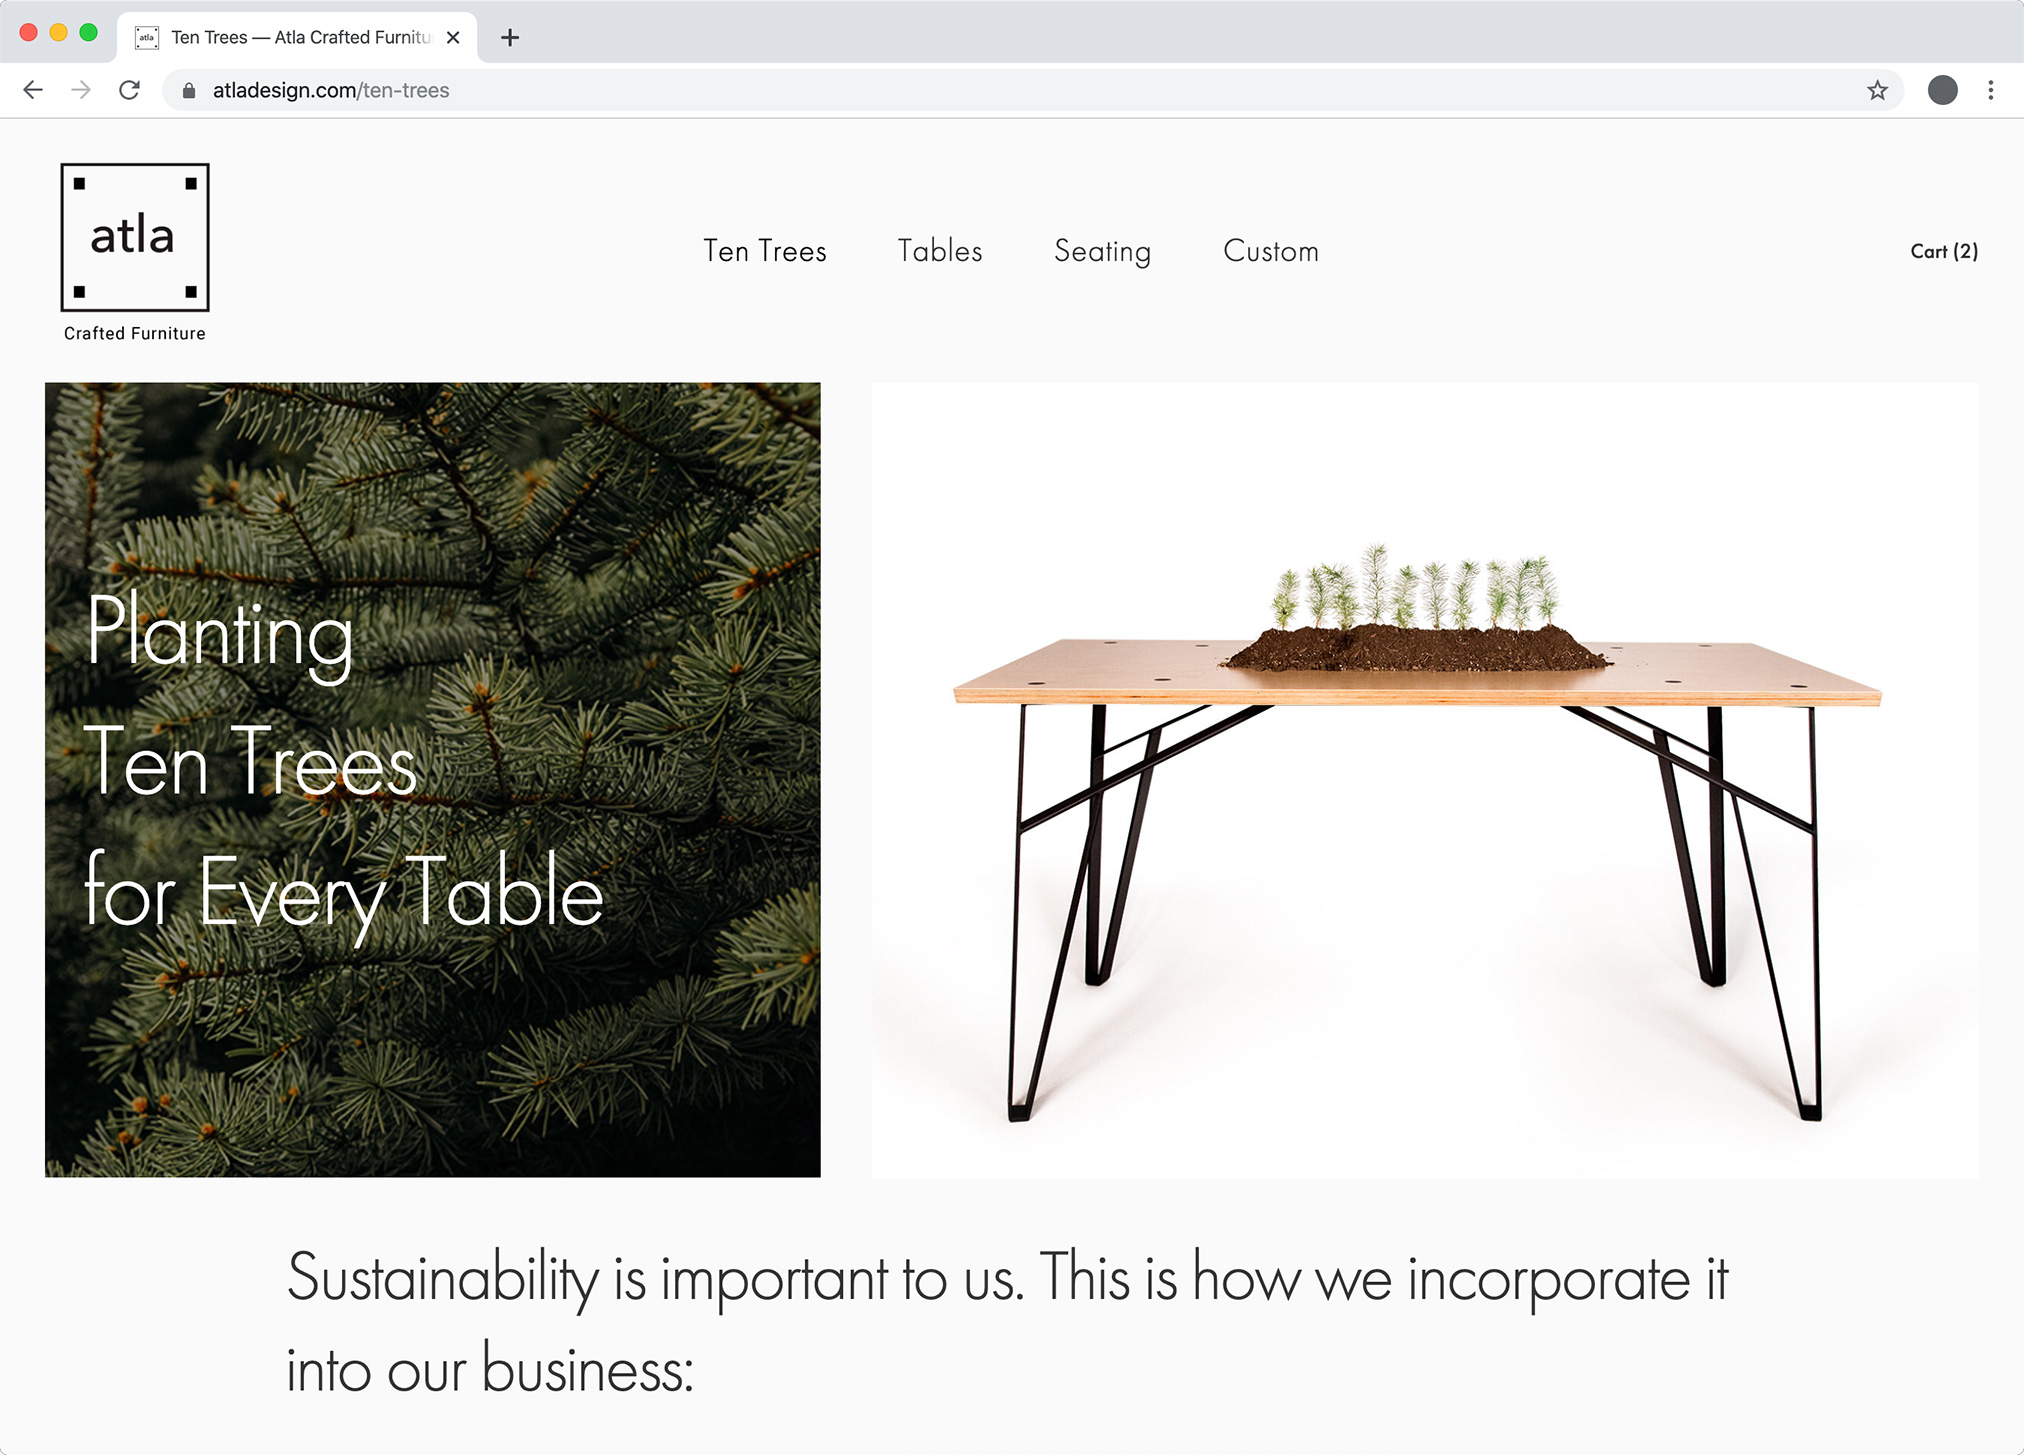
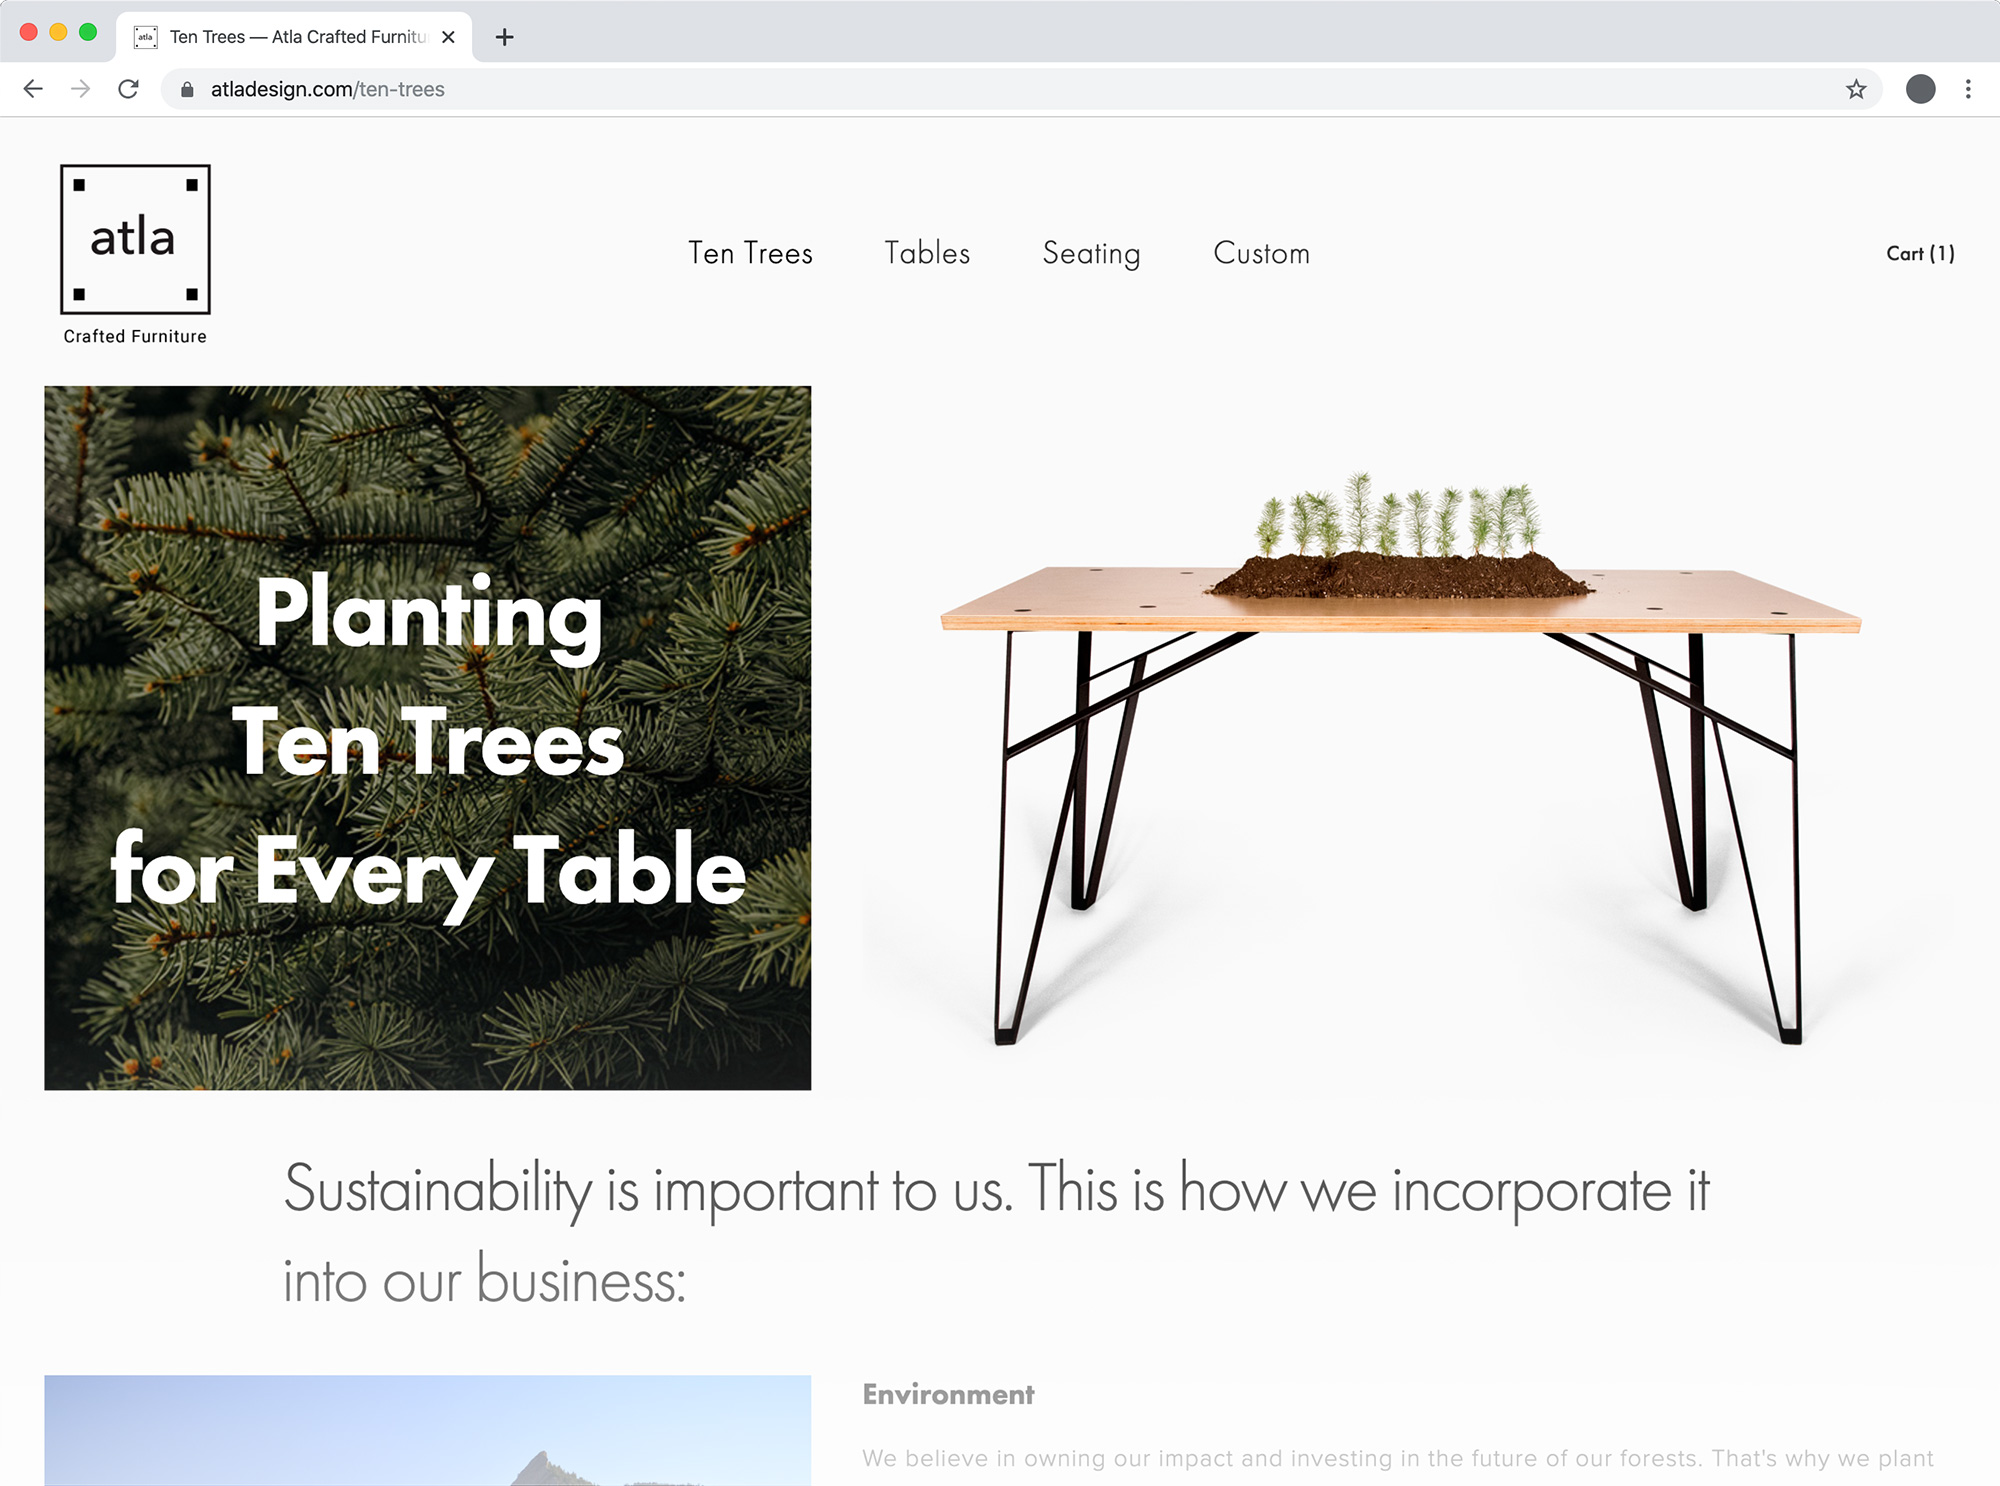
mass improvements to atla & ccf

diff --git a/atla.html b/atla.html
@@ -14,6 +14,8 @@
 
       <script src="assets/header2.js"></script>
 
+      <img class="fullscrn tilepic" src="assets/atla/email-header-small.jpg">
+
       <h1 class="pageTitle">Atla Design</h1>
 
       <div class="evenRow">
@@ -23,50 +25,55 @@
         </div>
 
         <div class="flex" style="width:60%;">
-          <p class="description">ATLA is a small, independent furniture company based in Boulder. The name of the game for them is simplicity, customizability, and sustainability.</p>
+          <p class="description">ATLA is a small, independent furniture company based in Boulder focusing on simplicity, sustainability, and durability. They came to me in need of a new website, more developed branding, marketing materials, and photo editing.</p>
         </div>
       </div>
 
-
+      <div
 
       <div class="evenRow">
-        <img src="assets/atla/ten-trees-desktop.jpg" class="tilePic melloShadow flex" style="width: calc(70.3% - 20px); border-radius: 10px;">
+        <div style="height: 5px; width: 7%"></div>
+        <img src="assets/atla/ten-trees-desktop.jpg" class="tilePic melloShadow flex" style="width: 80%; border-radius: 10px;">
+        <div style="height: 5px; width: 7%"></div>
 
-        <img src="assets/atla/mobile-site.png" class="tilePic flex" style="width: calc(29.7% - 20px); border-radius: 5px;">
-      </div>
+        <!-- <img src="assets/atla/mobile-site.png" class="tilePic flex" style="width: calc(29.7% - 20px);"> -->
+        <div style="height: 5px; width: 7%"></div>
+        <img class="tilePic melloShadow flex" src="assets/atla/materials-desktop.png" style="width: calc(80%); border-radius: 10px;">
+        <div style="height: 5px; width: 7%"></div>
 
-      <div class="line"></div>
-
-      <h2>Instagram Saved Stories</h2>
-      <div class="evenRow">
-        <div class="standardBox">
-          <img src="assets/atla/ig-stories-icons.png" class="paddedPic">
-        </div>
-
-        <div class="standardBox">
-          <img src="assets/atla/ig-stories-t.png" class="paddedPic">
-        </div>
       </div>
 
       <div class="line"></div>
 
-      <h2>Product Photos</h2>
+      <h2>Marketing Materials</h2>
+
       <div class="evenRow">
+
+        <div class="standardBox">
+          <img src="assets/atla/ig_stories-gif.gif" class="paddedPic">
+        </div>
+
+        <div class="standardBox">
+          <img src="assets/atla/email-desktop2.png" class="paddedPic melloShadow" style="border-radius: 10px; border: 1px solid #d5d5d5">
+        </div>
+      </div>
+
+      <div class="line"></div>
+
+      <h2>Photo Editing & Animation</h2>
+
+      <div class="evenrow">
         <img class="fullscrn tilepic notMobile" src="assets/atla/atla_product_B4aftr.jpg">
         <img class="fullscrn tilepic mobile" src="assets/atla/atla_product_B4aftr_vert.jpg">
-
-        <!-- <div class="standardBox">
-          <img src="assets/triangles_stopmo_white.gif" class="paddedPic">
-        </div> -->
-
-        <div class="standardBox">
-          <img src="assets/sample-kit-stopmo.gif" class="paddedPic">
-        </div>
-
 
         <div class="standardBox">
           <img src="assets/atla/enright-animated.gif" class="paddedPic">
         </div>
+
+        <div class="standardBox">
+          <img src="assets/atla/ten-trees-gif.gif" class="paddedPic">
+        </div>
+
 
       </div>
 
@@ -75,7 +82,13 @@
       <h2>Miscellanea</h2>
 
       <div class="evenRow">
-        <img src="assets/atla-card.png" class="tilePic melloShadow flex" style="width: 48%";>
+        <div class="standardBox">
+          <img src="assets/atla-card.png" class="tilePic melloShadow flex">
+        </div>
+
+        <div class="standardBox">
+          <img src="assets/atla/atla-shirt.jpg" class="tilePic flex">
+        </div>
       </div>
 
       <script src="assets/footer.js"></script>

diff --git a/ccf.html b/ccf.html
@@ -13,6 +13,8 @@
 
       <script src="assets/header2.js"></script>
 
+      <img class="fullscrn tilepic" src="assets/ccf/ccfbump.jpg">
+
       <h1 class="pageTitle">Colorado Carbon Fund</h1>
 
       <div class="evenRow">
@@ -37,24 +39,16 @@
 
       <div class="line"></div>
 
-
-
-      <div class="evenRow">
-
-        <div class="flex" style="width:30%;">
-          <h2>Website</h2>
-        </div>
-
-        <div class="flex" style="width:60%;">
-
-
-        </div>
-      </div>
+      <h2>Website</h2>
 
       <div class="evenRow">
-        <img src="assets/ccf/ccf_masthead.jpg" class="tilePic melloShadow flex">
+        <div style="height: 5px; width: 7%"></div>
+        <img src="assets/ccf/ccf-masthead.jpg" class="tilePic melloShadow flex" style="width: 80%; border-radius: 10px;">
+        <div style="height: 5px; width: 7%"></div>
 
-        <img src="assets/ccf/carbon-neutral-cert.png" class="tilePic melloShadow flex">
+        <div style="height: 5px; width: 7%"></div>
+        <img src="assets/ccf/carbon-neutral-cert.jpg" class="tilePic melloShadow flex" style="width: 80%; border-radius: 10px;">
+        <div style="height: 5px; width: 7%"></div>
       </div>
 
       <div class="line"></div>

diff --git a/other-work.html b/other-work.html
@@ -28,6 +28,15 @@
 
       <div class="line"></div>
 
+      <h2>Radio for the Blind</h2>
+      <div class="evenRow">
+        <div class="standardBox">
+          <img src="assets/other-work/bottle-imp.png" class="paddedPic">
+        </div>
+      </div>
+
+      <div class="line"></div>
+
       <h2>Biotech</h2>
 
       <div class="evenRow">
@@ -49,15 +58,6 @@
         </div>
 
 
-      </div>
-
-      <div class="line"></div>
-
-      <h2>Radio for the Blind</h2>
-      <div class="evenRow">
-        <div class="standardBox">
-          <img src="assets/other-work/bottle-imp.png" class="paddedPic">
-        </div>
       </div>
 
       <div class="line"></div>

diff --git a/posters.html b/posters.html
@@ -62,6 +62,11 @@
 
 
       <div class="evenRow">
+
+        <img class="fullscrn tilepic" src="assets/posters/dogbasketball-shirt.jpg">
+
+        <!-- <img class="fullscrn tilepic" src="assets/posters/shirt-graphic-modeled.jpg"> -->
+
         <div class="standardBox">
           <img src="assets/posters/shirt-modeled.jpg" class="paddedPic">
         </div>

diff --git a/style2.css b/style2.css
@@ -147,7 +147,7 @@ div.homeLink {margin-bottom: 20px;}
 
 h1.pageTitle {
   margin: 10px 20px 20px 20px !important;
-  font-size: 46px;
+  font-size: 60px;
   text-align: left;
   line-height: 45px;
 }
